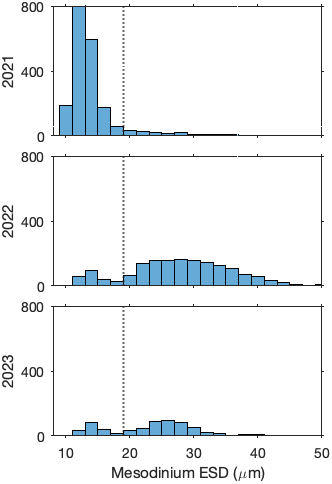
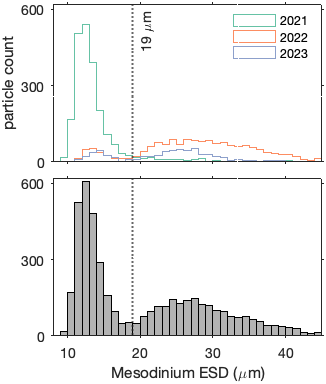
BI histogram

Changed region(s): [[0.0, 0.0, 1.0, 1.0], [0.8589, 0.9062, 0.9202, 0.9375]]

diff --git a/NOAA/BuddInlet/plot_histogram_BI.m b/NOAA/BuddInlet/plot_histogram_BI.m
@@ -1,21 +1,88 @@
 clear
-addpath(genpath('C:\Users\ifcbuser\Documents\GitHub\ifcb-analysis\'));
-addpath(genpath('C:\Users\ifcbuser\Documents\GitHub\bloom-baby-bloom\'));
+% filepath = '~/Documents/MATLAB/bloom-baby-bloom/';
+% addpath(genpath('~/Documents/MATLAB/ifcb-analysis/'));
+% addpath(genpath(filepath));
+% addpath(genpath('~/Documents/MATLAB/bloom-baby-bloom'));
+
 filepath = 'C:\Users\ifcbuser\Documents\GitHub\bloom-baby-bloom\';
 
-load([filepath 'IFCB-Data\BuddInlet\eqdiam_biovol_2021']);
+%%%% load in data and format dataset
+% remove: discrete samples, PMTA triggers, and data from October-March
+% load([filepath 'IFCB-Data/BuddInlet/eqdiam_biovol_2021'],'ESD','matdate','filecomment','runtype');
+% dt=datetime(matdate,'convertfrom','datenum');
+% idx=find(contains(filecomment,'trigger')); ESD(idx)=[]; dt(idx)=[]; runtype(idx)=[]; 
+% idx=find(contains(runtype,{'ALT','Alternative'})); ESD(idx)=[];  dt(idx)=[];
+% idx=find(dt.Month==1 | dt.Month==2 | dt.Month==3 | dt.Month==10 | dt.Month==11 | dt.Month==12); ESD(idx)=[]; dt(idx)=[]; 
+% E1=ESD;
+% clearvars runtype filecomment dt idx matdate ESD
 
-% remove data from October-March
+load([filepath 'IFCB-Data/BuddInlet/eqdiam_biovol_2022'],'ESD','matdate','filecomment','runtype');
 dt=datetime(matdate,'convertfrom','datenum');
+idx=find(contains(filecomment,'trigger')); ESD(idx)=[]; dt(idx)=[]; runtype(idx)=[]; 
+idx=find(contains(runtype,{'ALT','Alternative'})); ESD(idx)=[];  dt(idx)=[];
+idx=find(dt.Month==1 | dt.Month==2 | dt.Month==3 | dt.Month==10 | dt.Month==11 | dt.Month==12); ESD(idx)=[]; dt(idx)=[]; 
+E2=ESD;
+clearvars runtype filecomment dt idx matdate ESD
+
+load([filepath 'IFCB-Data/BuddInlet/eqdiam_biovol_2023'],'ESD','matdate','filecomment','runtype');
+dt=datetime(matdate,'convertfrom','datenum');
+idx=find(contains(filecomment,'trigger')); ESD(idx)=[]; dt(idx)=[]; runtype(idx)=[]; 
+idx=find(contains(runtype,{'ALT','Alternative'})); ESD(idx)=[];  dt(idx)=[];
+idx=find(dt.Month==1 | dt.Month==2 | dt.Month==3 | dt.Month==10 | dt.Month==11 | dt.Month==12); ESD(idx)=[]; dt(idx)=[]; 
+E3=ESD;
+clearvars runtype filecomment dt idx matdate ESD
+
+% plotting
+c=brewermap(3,'Set2'); 
+
+figure('Units','inches','Position',[1 1 3.5 2],'PaperPositionMode','auto');
+    histogram(cell2mat(E2),0:1:70,'DisplayStyle','stairs','edgecolor',c(1,:)); hold on
+    histogram(cell2mat(E2),0:1:70,'DisplayStyle','stairs','edgecolor',c(2,:)); hold on
+    histogram(cell2mat(E2),0:1:70,'DisplayStyle','stairs','edgecolor',c(3,:)); hold on
+    set(gca,'ylim',[0 6*10^5],'xlim',[-1 50],'fontsize',10,'tickdir','out');
+    ylabel('particle count','fontsize',11)
+    xlabel('ESD (\mum)')    
+    legend('2021','2022','2023'); legend boxoff;
+
+% set figure parameters
+exportgraphics(gcf,[filepath 'NOAA\BuddInlet\Figs\BI_particle_size_distribution.png'],'Resolution',100)    
+%exportgraphics(gcf,[filepath 'NOAA/BuddInlet/Figs/BI_particle_size_distribution.png'],'Resolution',100)    
+hold off
+
+%% plot Mesodinium and ESD together
+load([filepath 'IFCB-Data/BuddInlet/manual/summary_meso_width_manual'],'mdate','ESD');
+dt=datetime(mdate,'convertfrom','datenum')';
+% remove data from October-March
 idx=find(dt.Month==1 | dt.Month==2 | dt.Month==3 | dt.Month==10 | dt.Month==11 | dt.Month==12);
 dt(idx)=[]; ESD(idx)=[];
 
-figure('Units','inches','Position',[1 1 3.5 3.5],'PaperPositionMode','auto');
-    histogram(cell2mat(ESD),5:2:55); hold on
-    set(gca,'fontsize',10,'tickdir','out');
-    ylabel('count','fontsize',11)
-    xlabel('ESD (\mum)')
+c=brewermap(3,'Set2'); 
+figure('Units','inches','Position',[1 1 3.5 4],'PaperPositionMode','auto');
+subplot = @(m,n,p) subtightplot (m, n, p, [0.04 0.04], [0.12 0.05], [0.19 0.04]);
+%subplot = @(m,n,p) subtightplot(m,n,p,opt{:}); 
+%where opt = {gap, width_h, width_w} describes the inner and outer spacings.
+
+subplot(2,1,1)
+    histogram(cell2mat(E2),0:1:70,'DisplayStyle','stairs','edgecolor',c(1,:)); hold on
+    histogram(cell2mat(E2),0:1:70,'DisplayStyle','stairs','edgecolor',c(2,:)); hold on
+    histogram(cell2mat(E2),0:1:70,'DisplayStyle','stairs','edgecolor',c(3,:)); hold on
+    set(gca,'ylim',[0 6*10^5],'xlim',[0 50],'xticklabel',{},'fontsize',10,'tickdir','out');
+    ylabel('particle count','fontsize',11)
+    legend('2021','2022','2023'); legend boxoff;
+
+subplot(2,1,2)
+yrlist=[2021;2022;2023];
+for i=1:length(yrlist)
+    idx=(dt.Year==yrlist(i));
+    histogram(cell2mat([ESD(idx)]),0:1:70,'DisplayStyle','stairs','edgecolor',c(i,:)); hold on
+    set(gca,'xlim',[0 50],'xtick',0:10:50,'ylim',[0 550],'ytick',0:250:500, ...
+       'fontsize',10,'tickdir','out'); hold on;    
+    ylabel('particle count','fontsize',11)
+end
+    xline(19,':',{'19 \mum'},'linewidth',1.5); hold on;
+    ylabel('Mesodinium count','fontsize',11)    
+    xlabel('ESD (\mum)')    
 
 %% set figure parameters
-exportgraphics(gcf,[filepath 'NOAA/BuddInlet/Figs/Mesodinium_ESD_histogram.png'],'Resolution',100)    
+exportgraphics(gcf,[filepath 'NOAA/BuddInlet/Figs/Mesodinium_ESD_histogram_yr.png'],'Resolution',100)    
 hold off

diff --git a/NOAA/BuddInlet/histogram_Mesodinium_size.m b/NOAA/BuddInlet/histogram_Mesodinium_size.m
@@ -6,40 +6,35 @@ addpath(genpath(filepath));
 
 load([filepath 'IFCB-Data/BuddInlet/manual/summary_meso_width_manual'],'mdate','ESD');
 dt=datetime(mdate,'convertfrom','datenum')';
+
 % remove data from October-March
 idx=find(dt.Month==1 | dt.Month==2 | dt.Month==3 | dt.Month==10 | dt.Month==11 | dt.Month==12);
 dt(idx)=[]; ESD(idx)=[];
 
-figure('Units','inches','Position',[1 1 3.5 3.5],'PaperPositionMode','auto');
-    histogram(cell2mat(ESD),5:2:55); hold on
-    xl=xline(19,':',{'19 \mum'},'linewidth',1.5); hold on;
-    set(gca,'xlim',[8 50],'xtick',10:10:50,'ylim',[0 900],'ytick',0:400:800,'fontsize',10,'tickdir','out');
-    ylabel('count','fontsize',11)
-    xlabel('Mesodinium ESD (\mum)')
-
-% set figure parameters
-exportgraphics(gcf,[filepath 'NOAA/BuddInlet/Figs/Mesodinium_ESD_histogram.png'],'Resolution',100)    
-hold off
-
-
-%% year by year
-figure('Units','inches','Position',[1 1 3.5 5],'PaperPositionMode','auto');
-subplot = @(m,n,p) subtightplot (m, n, p, [0.04 0.04], [0.1 0.04], [0.19 0.04]);
+figure('Units','inches','Position',[1 1 3.5 4],'PaperPositionMode','auto');
+subplot = @(m,n,p) subtightplot (m, n, p, [0.04 0.04], [0.12 0.05], [0.19 0.04]);
 %subplot = @(m,n,p) subtightplot(m,n,p,opt{:}); 
 %where opt = {gap, width_h, width_w} describes the inner and outer spacings.
- yrlist=[2021;2022;2023];
-for i=1:length(yrlist)
-    ax(i)=subplot(3,1,i);
-    idx=(dt.Year==yrlist(i));
-    histogram(cell2mat([ESD(idx)]),5:2:55); hold on
-    xl=xline(19,':','linewidth',1.5); hold on;
-    set(gca,'xlim',[8 50],'xtick',10:10:50,'ylim',[0 800],'ytick',0:400:800, ...
-       'fontsize',10,'tickdir','out'); hold on;
-    ylabel(num2str(yrlist(i)),'fontsize',11)
-end
-    xlabel('Mesodinium ESD (\mum)')
 
-ax(1).XTickLabel={}; ax(2).XTickLabel={};
+subplot(2,1,1)
+yrlist=[2021;2022;2023];
+c=brewermap(3,'Set2'); 
+for i=1:length(yrlist)
+    idx=(dt.Year==yrlist(i));
+    histogram(cell2mat([ESD(idx)]),0:1:70,'DisplayStyle','stairs','edgecolor',c(i,:)); hold on
+    set(gca,'xlim',[8 45],'xtick',10:10:45,'xticklabel',{},'ylim',[0 620],'ytick',0:300:600, ...
+       'fontsize',10,'tickdir','out'); hold on;    
+    ylabel('particle count','fontsize',11)
+end
+    xline(19,':',{'19 \mum'},'linewidth',1.5); hold on;
+    legend('2021','2022','2023'); legend boxoff;
+
+subplot(2,1,2)    
+    histogram(cell2mat(ESD),0:1:70,'facecolor',[.5 .5 .5]); hold on
+    xline(19,':','linewidth',1.5); hold on;
+    set(gca,'xlim',[8 45],'xtick',10:10:45,'ylim',[0 620],'ytick',0:300:600, ...
+       'fontsize',10,'tickdir','out'); hold on;    
+    xlabel('Mesodinium ESD (\mum)')
 
 % set figure parameters
 exportgraphics(gcf,[filepath 'NOAA/BuddInlet/Figs/Mesodinium_ESD_histogram_yr.png'],'Resolution',100)    

diff --git a/NOAA/BuddInlet/histogram_sizes_2022vs2023.m b/NOAA/BuddInlet/histogram_sizes_2022vs2023.m
@@ -1,5 +1,4 @@
 %% histogram of what was imaged between 2022 and 2023
-
 clear
 filepath = '~/Documents/MATLAB/bloom-baby-bloom/';
 addpath(genpath('~/Documents/MATLAB/ifcb-analysis/'));
